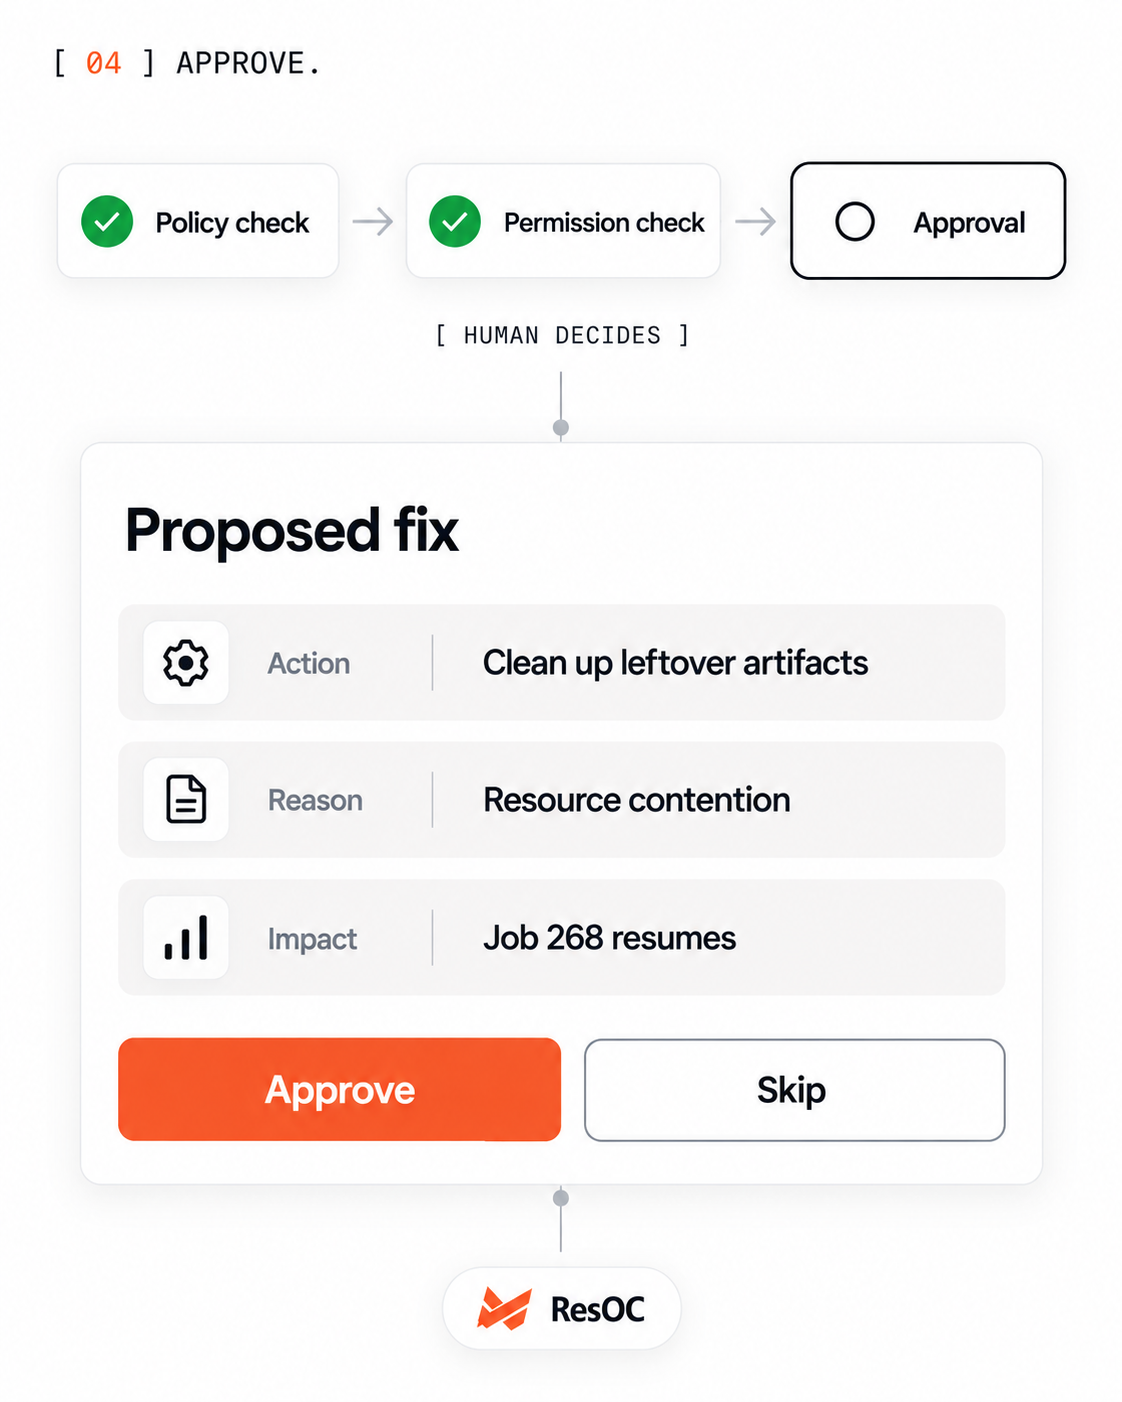
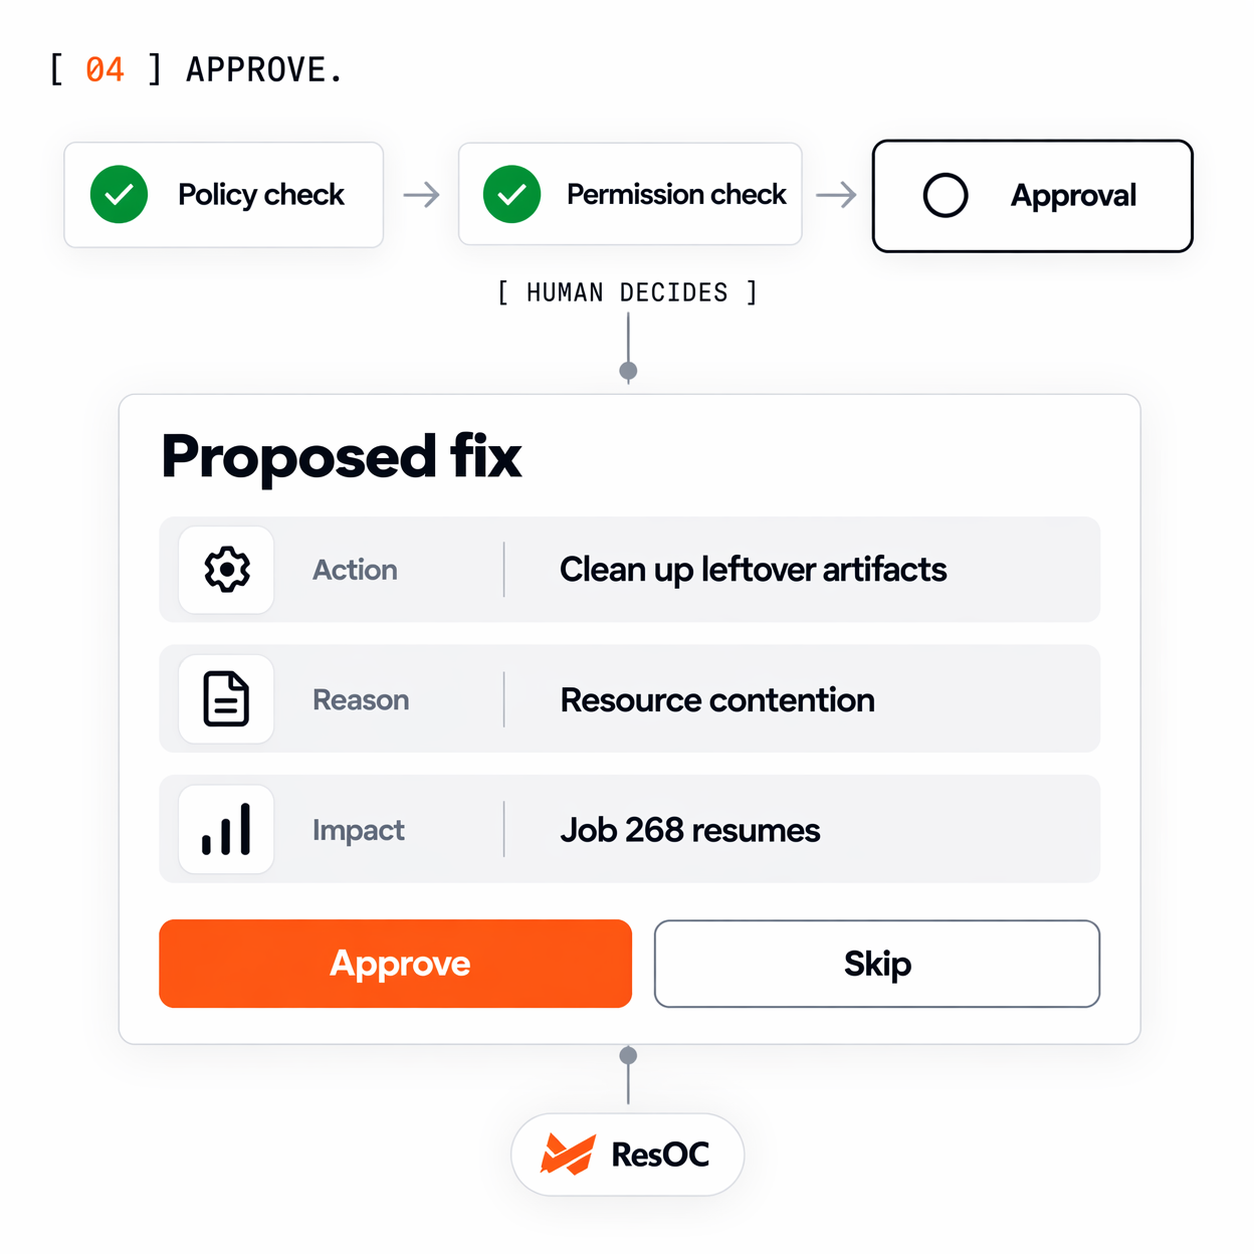
Update hero slide showcase to 1:1 aspect ratio, increase slide display size to 470px, and push new square slide graphics

diff --git a/src/components/hero/HeroSlideStack.tsx b/src/components/hero/HeroSlideStack.tsx
@@ -6,42 +6,42 @@ const HERO_SLIDES = [
   {
     step: "01",
     label: "CONNECT",
-    src: "/images/img/slide 1.png",
+    src: "/images/img/slide 1.png?v=2",
     alt: "ResOC Connect: Agent Mesh unifying Business, Infrastructure and Security",
     prompt: "Connect payments, databases & clouds to Agent Mesh",
   },
   {
     step: "02",
     label: "ASK",
-    src: "/images/img/slide 2.png",
+    src: "/images/img/slide 2.png?v=2",
     alt: "ResOC Ask: Can we recover payments right now?",
     prompt: 'Ask ResOC: "Can we recover payments right now?"',
   },
   {
     step: "03",
     label: "REASON",
-    src: "/images/img/slide 3.png",
+    src: "/images/img/slide 3.png?v=2",
     alt: "ResOC Reason: Probable cause diagnosis across telemetry",
     prompt: "Probable cause: Resource contention from leftover artifacts",
   },
   {
     step: "04",
     label: "APPROVE",
-    src: "/images/img/slide 4.png",
+    src: "/images/img/slide 4.png?v=2",
     alt: "ResOC Approve: Human-in-the-loop decision and policy check",
     prompt: 'Proposed fix: "Clean up leftover artifacts"',
   },
   {
     step: "05",
     label: "PROVE",
-    src: "/images/img/slide 5.png",
+    src: "/images/img/slide 5.png?v=2",
     alt: "ResOC Prove: Audit-ready evidence record and restore proof",
     prompt: "Evidence record: Audit-ready restore test passed",
   },
   {
     step: "06",
     label: "REPEAT",
-    src: "/images/img/slide 6.png",
+    src: "/images/img/slide 6.png?v=2",
     alt: "ResOC Repeat: Automated daily continuous resilience cycle",
     prompt: "Continuous resilience: Mon-Sun continuous verify",
   },
@@ -137,7 +137,7 @@ export function HeroSlideStack() {
       style={{
         position: "relative",
         width: "100%",
-        maxWidth: 405,
+        maxWidth: 470,
         display: "flex",
         flexDirection: "column",
         alignItems: "center",
@@ -203,12 +203,12 @@ export function HeroSlideStack() {
         </div>
       </div>
 
-      {/* ─── Slide Image Stage (Image ITSELF is the Box, No Outer Double Box) ─── */}
+      {/* ─── Slide Image Stage (1:1 Ratio Matching New Square Images) ─── */}
       <div
         style={{
           position: "relative",
           width: "100%",
-          aspectRatio: "1122 / 1402",
+          aspectRatio: "1 / 1",
           borderRadius: 20,
           overflow: "hidden",
           boxShadow:

diff --git a/src/components/hero/HeroSection.tsx b/src/components/hero/HeroSection.tsx
@@ -31,8 +31,8 @@ export function HeroSection() {
       <div
         className="container hero-container"
         style={{
-          maxWidth: 1100,
-          width: "min(1100px, calc(100% - 48px))",
+          maxWidth: 1180,
+          width: "min(1180px, calc(100% - 48px))",
           margin: "0 auto",
         }}
       >
@@ -40,9 +40,9 @@ export function HeroSection() {
           className="hero-grid"
           style={{
             display: "grid",
-            gridTemplateColumns: isMobile ? "1fr" : "minmax(0, 560px) minmax(0, 415px)",
+            gridTemplateColumns: isMobile ? "1fr" : "minmax(0, 560px) minmax(0, 470px)",
             justifyContent: isMobile ? "stretch" : "center",
-            gap: isMobile ? "32px" : "40px",
+            gap: isMobile ? "32px" : "44px",
             alignItems: "center",
           }}
         >
